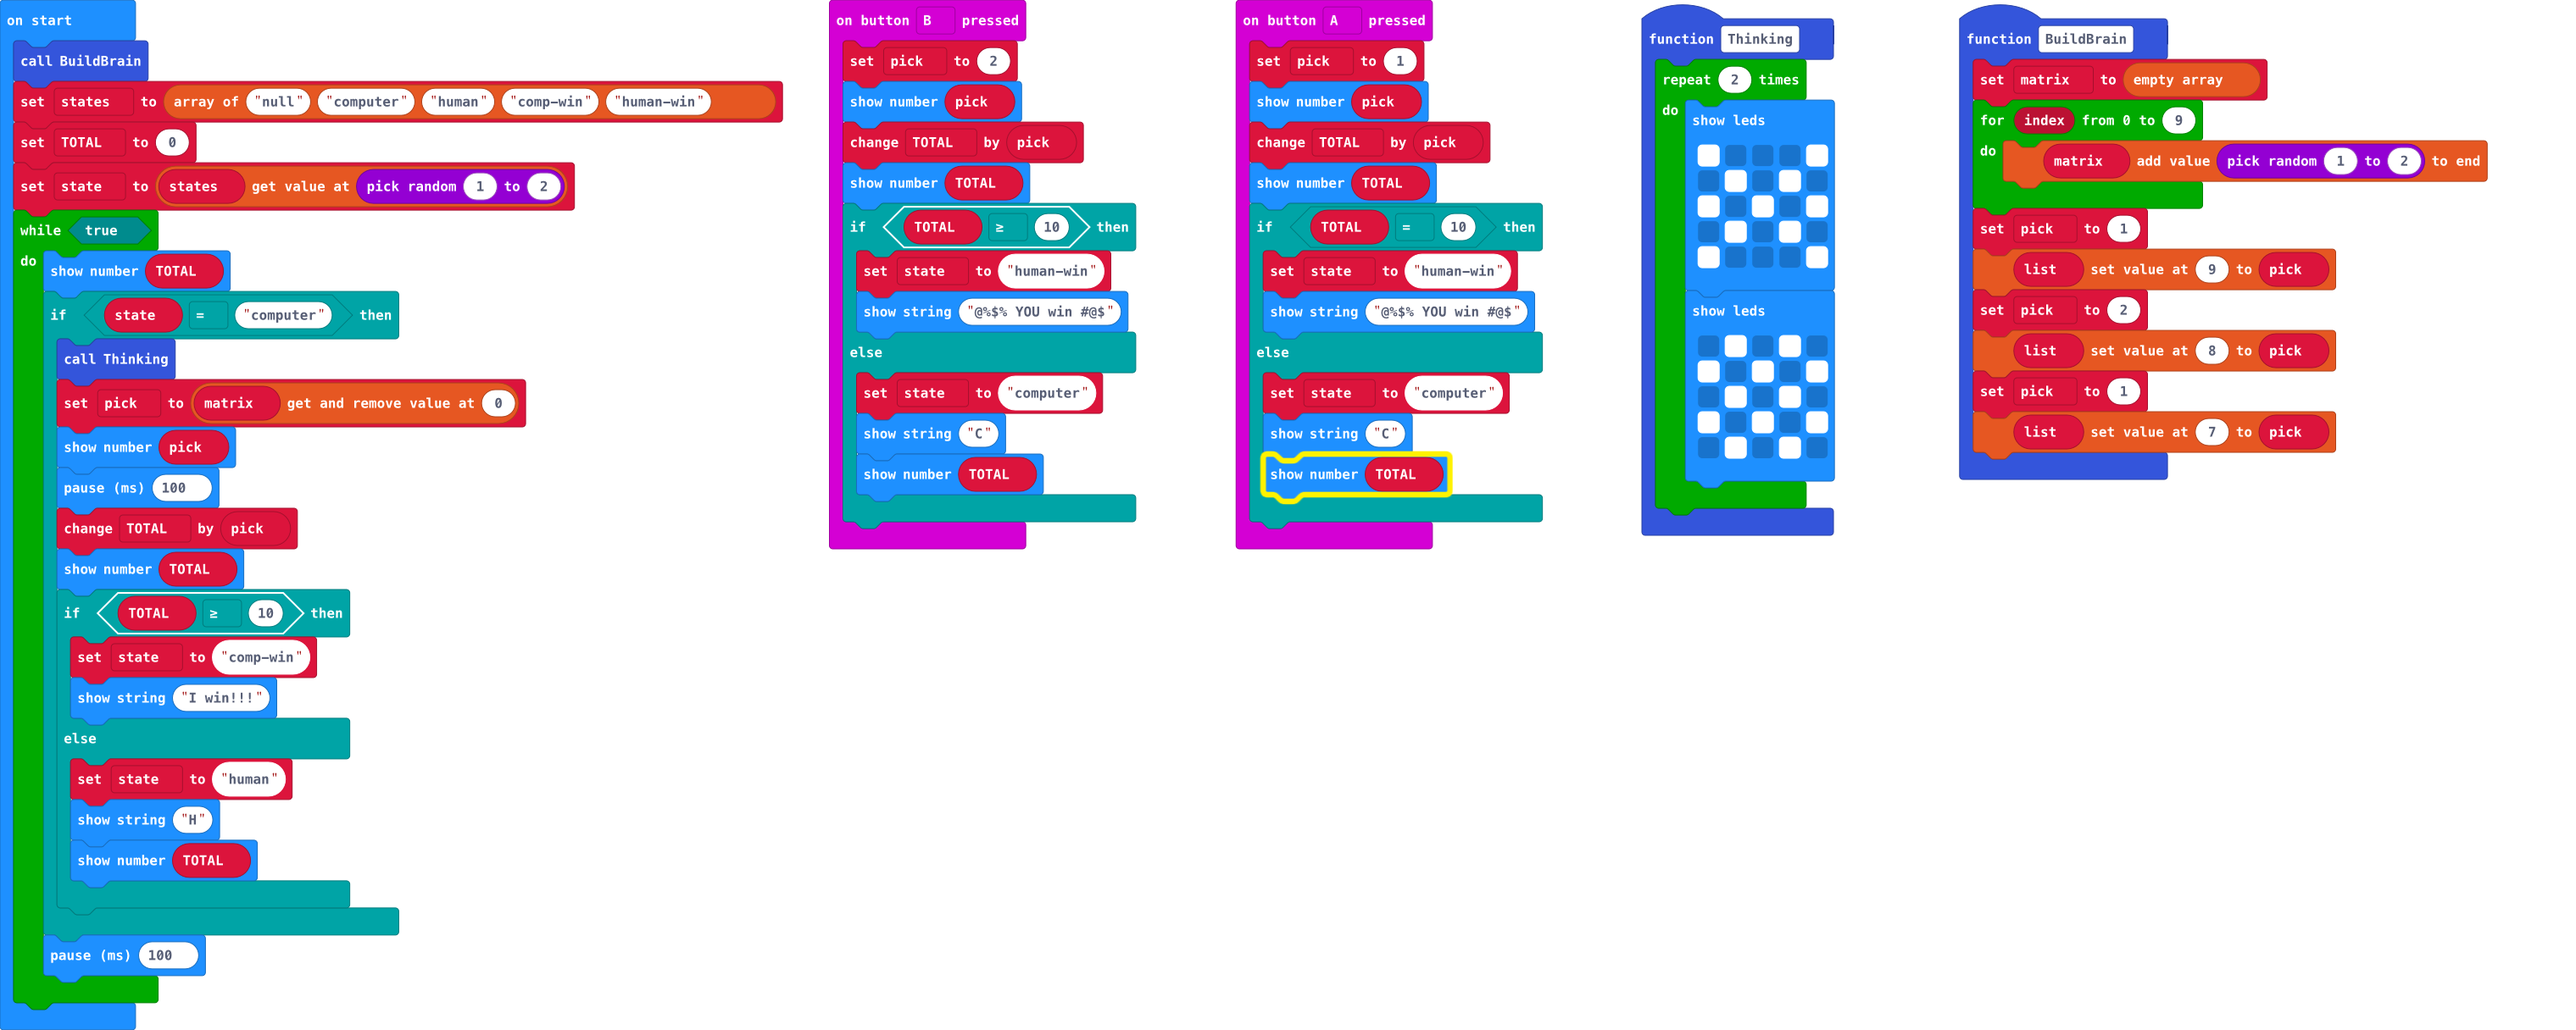
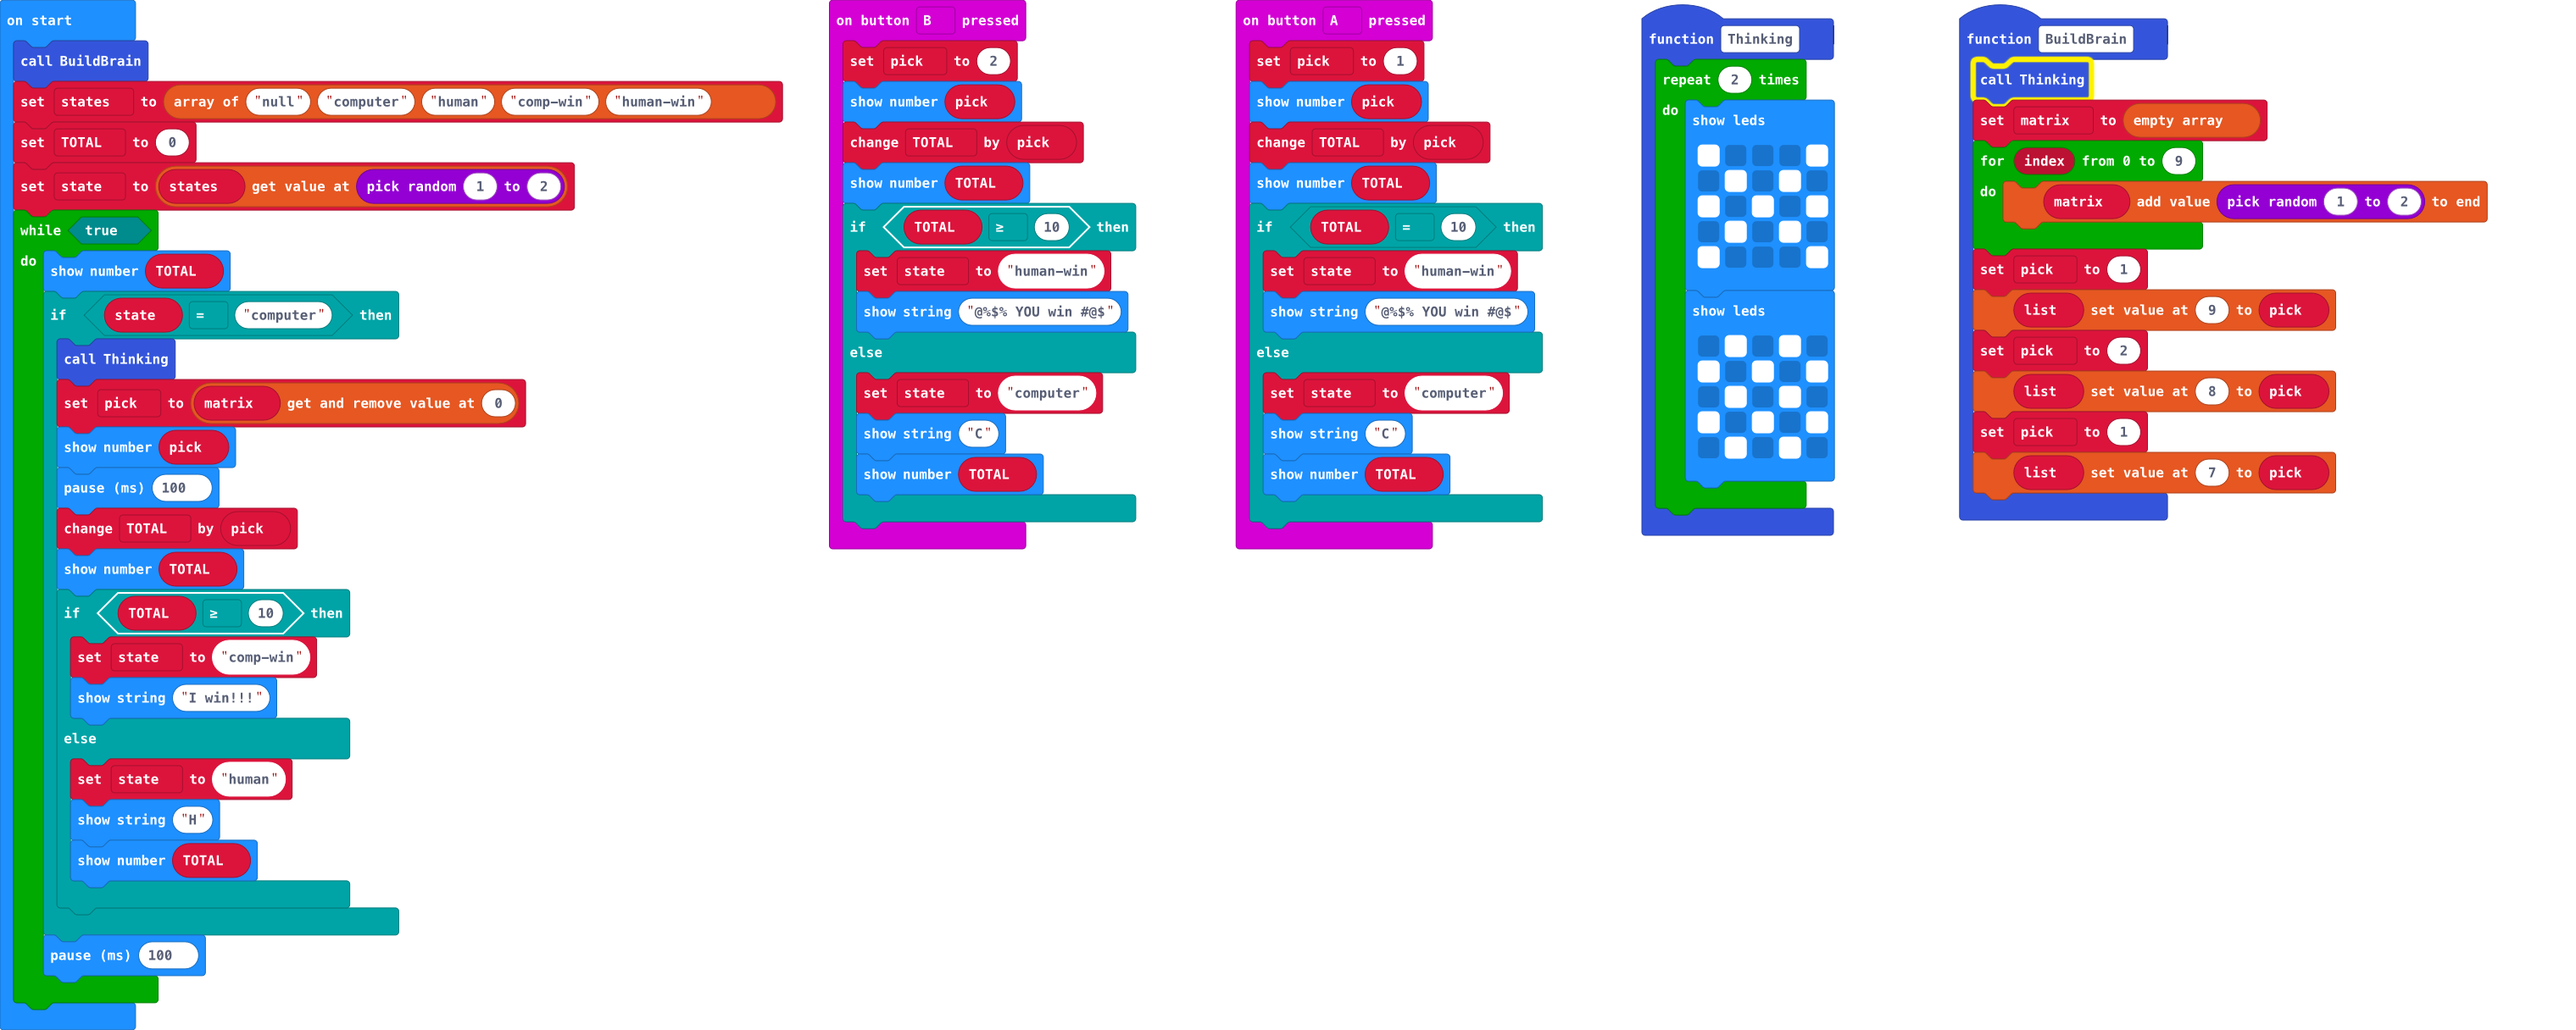
Update main.blocks, main.ts

Changed region(s): [[0.7423, 0.0312, 0.9898, 0.5312], [0.464, 0.4375, 0.5877, 0.5]]

diff --git a/main.ts b/main.ts
@@ -1,5 +1,6 @@
 function BuildBrain () {
     let list: number[] = []
+    Thinking()
     matrix = []
     for (let index = 0; index <= 9; index++) {
         matrix.push(randint(1, 2))
